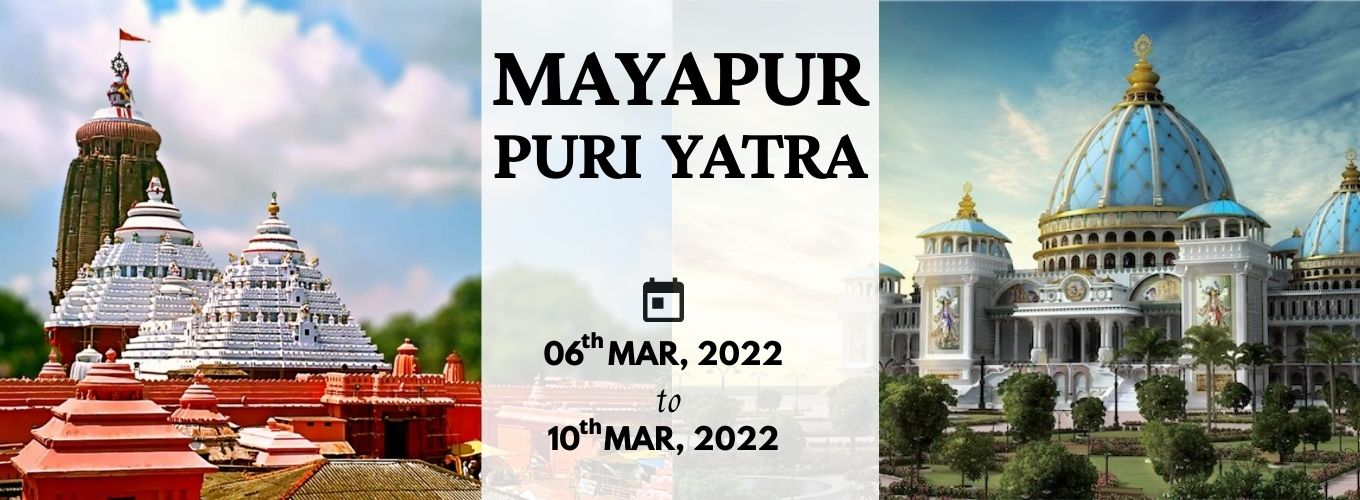
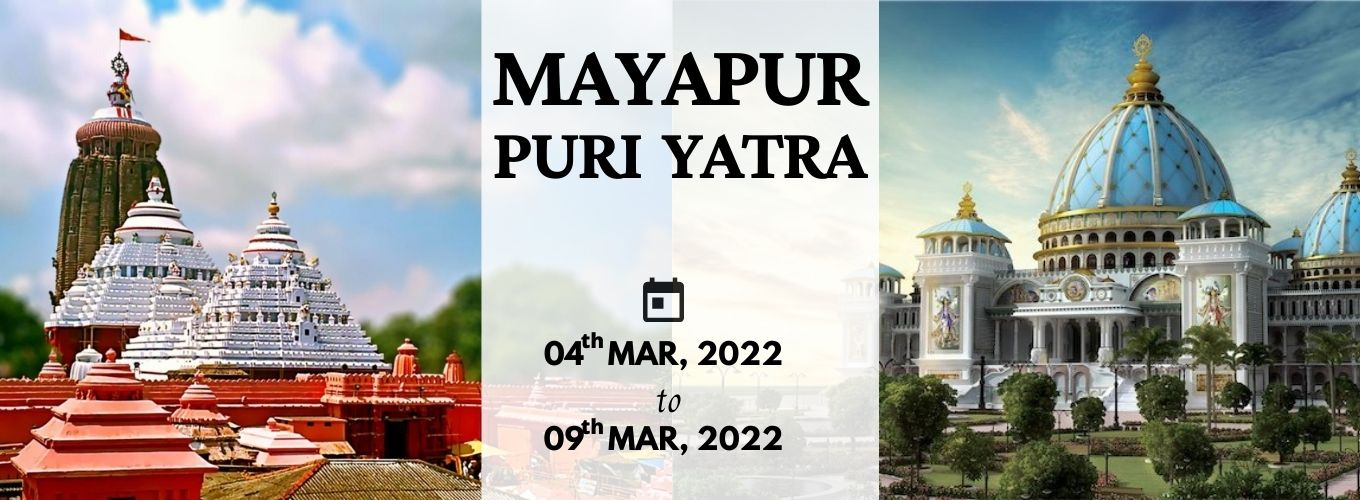
Changes

Changed region(s): [[0.4015, 0.84, 0.5868, 0.9], [0.4015, 0.69, 0.4941, 0.75], [0.525, 0.69, 0.5559, 0.72]]

diff --git a/mayapuryatra.html b/mayapuryatra.html
@@ -62,7 +62,7 @@
       <div class="flow-text">Hare Krishna!<br/><br/>
         We are pleased to inform you that we are organizing a trip to Jagannath Puri and Sri Mayapur Dham (The birth place of Lord Chaitanya Mahaprabhu) in the month of March 2022.<br/>
         
-        <br/> <b>Yatra starts from </b>Jagganath Puri on 06th March, 2022 and <b>ends on</b> 10th March, 2022 at Sri Mayapur Dham.
+        <br/> <b>Yatra starts from </b>Jagganath Puri on 04th March, 2022 and <b>ends on</b> 09th March, 2022 at Sri Mayapur Dham.
 
       </div>
       <h4 class="heading-3" style="font-weight: bolder;">Features</h4>
@@ -104,15 +104,15 @@
       <br/><br/>
       <div class="flow-text"><b>1)Accomodation</b></div> 
       <div class="flow-text">Check-in and Check-out details are as follows- </div>
-      <div class="flow-text"><b>Check-in timing</b>: 11:00AM, 06th March, 2022 (Jagganath Puri)</div>
-      <div class="flow-text"><b>Check-out timing</b>: 10:00AM, 10th March, 2022 (Sri Mayapur Dham)</div>
+      <div class="flow-text"><b>Check-in timing</b>: 11:00AM, 04th March, 2022 (Jagganath Puri)</div>
+      <div class="flow-text"><b>Check-out timing</b>: 10:00AM, 09th March, 2022 (Sri Mayapur Dham)</div>
       <br/>
       <div class="flow-text">Photo identity card with same name as on registration form is required for Check-in.</div>
       <br/>
       <div class="flow-text">Any devotees need any special arrangement in accomodation due to health issue then please let us know on whatsapp no. 7359802004 till 10th January, 2022.</div>
       <br/>
       <div class="flow-text" style="margin-bottom: 20px;"><b>2)Food Prasadam</b></div> 
-      <div class="flow-text">Food Prasadam will be provided starting from 06th March, 2022 afternoon till 10th March, 2022 morning.</div>
+      <div class="flow-text">Food Prasadam will be provided starting from 04th March, 2022 afternoon till 09th March, 2022 morning.</div>
       <br/>
       <div class="divider"></div>
       <h4 class="heading-3" style="font-weight: bolder;">Yatra Fees</h4>
@@ -141,12 +141,19 @@
       <div class="small-line"></div>
       <br/>
       <div class="flow-text">1) &nbsp; Devotees coming from Mumbai can book their tickets in following train-</div>
-      <div class="flow-text" ><b>Train No.</b> : ?</div>
-      <div class="flow-text" style="margin-bottom: 20px;">On <b>04th March, 2022</b> starts from Mumbai Central- 10:40PM to ? - 08:00AM </div>
-      <div class="flow-text">2) &nbsp; Devotees are requested to book their ticket from Puri to Howrah as early as possible in following train to stay together in group.</div>
+      <br/>
+      <div class="flow-text orange-text text-darken-4"><b>Journey from Mumbai to Puri</b></div>
+      <div class="flow-text" ><b>Train No.</b> : 02865 (Puri Festival Special)</div>
+      <div class="flow-text" style="margin-bottom: 20px;">On <b>03rd March, 2022</b> starts from <b>Lokmanyatilak Terminus (Mumbai)- 00:15</b> to <b>Puri- 04th March, 2022 | 08:35</b> </div>
+      <div class="flow-text">Note- This is the only train, please book ticket as early as possible.</div>
+      <br/>
+      <div class="flow-text orange-text text-darken-4"><b>Return Journey from Mayapur to Mumbai</b></div>
+      <div class="flow-text" ><b>Train No.</b> : 02260 Howrah CSMT SPL</div>
+      <div class="flow-text" style="margin-bottom: 20px;">On <b>08th March, 2022</b> starts from <b>Howrah- 14:05</b> to <b>CSMT(Mumbai)- 09th March, 2022 | 21:20</b> </div>
+      <div class="flow-text">2) &nbsp; Devotees are requested to book their ticket from <b class="orange-text text-darken-4">Puri to Howrah</b> as early as possible in following train to stay together in group.</div>
       <br/>
       <div class="flow-text" ><b>Train No.</b> : 18410 (Puri Howrah Express)</div>
-      <div class="flow-text" style="margin-bottom: 20px;">On <b>07th March, 2022</b> starts from Puri- 10:40PM to Howrah- 08:00AM </div>
+      <div class="flow-text" style="margin-bottom: 20px;">On <b>06th March, 2022</b> starts from <b>Puri- 22:40</b> to <b>Howrah- 07th March, 2022 | 08:00</b> </div>
       <div class="divider"></div>
       <h4 class="heading-3" style="margin-top: 20px; font-weight: bolder;">Cancellation Policy-</h4>
       <div class="small-line"></div>
